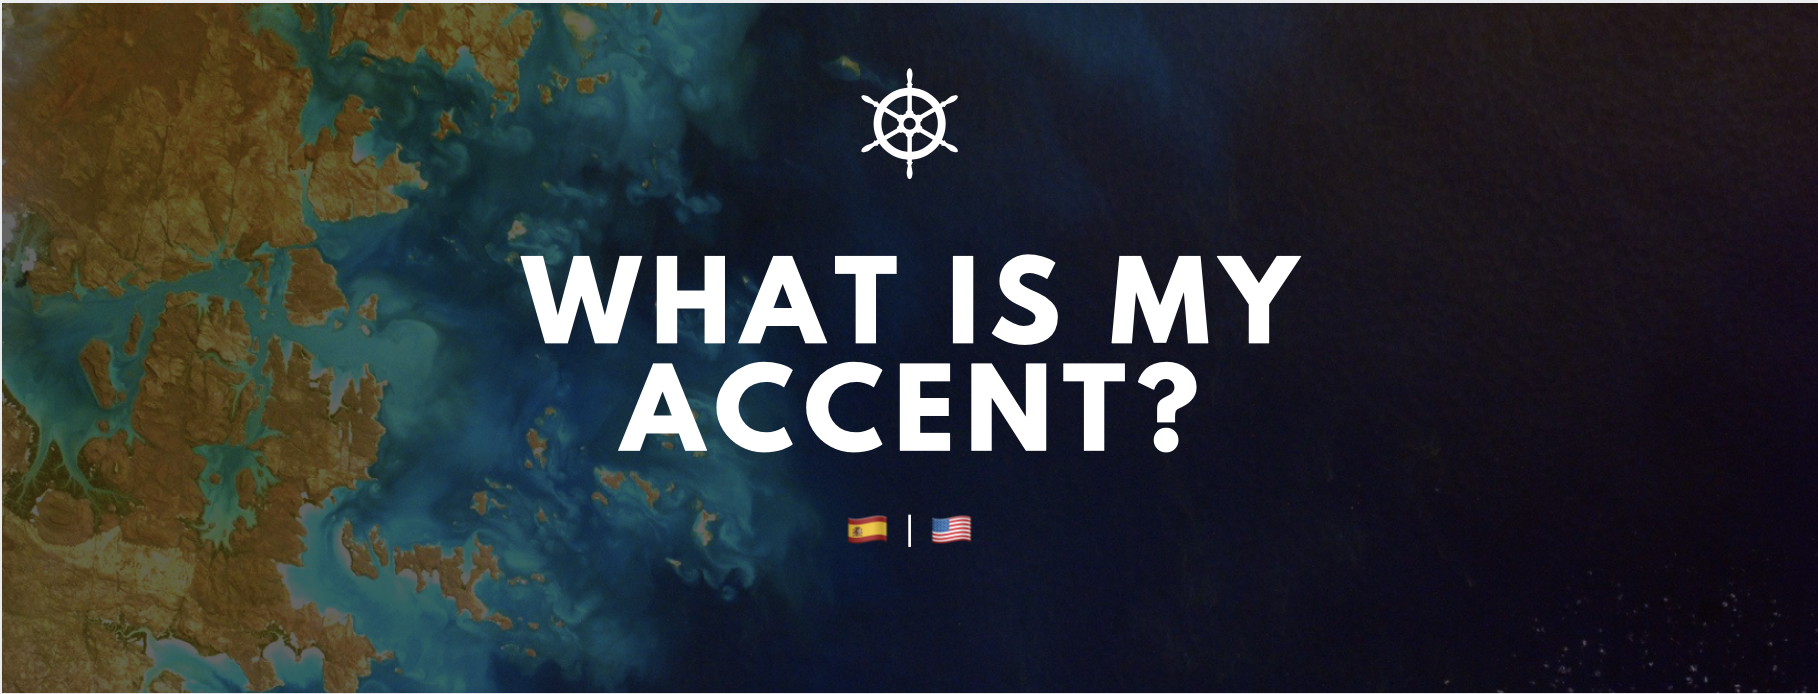
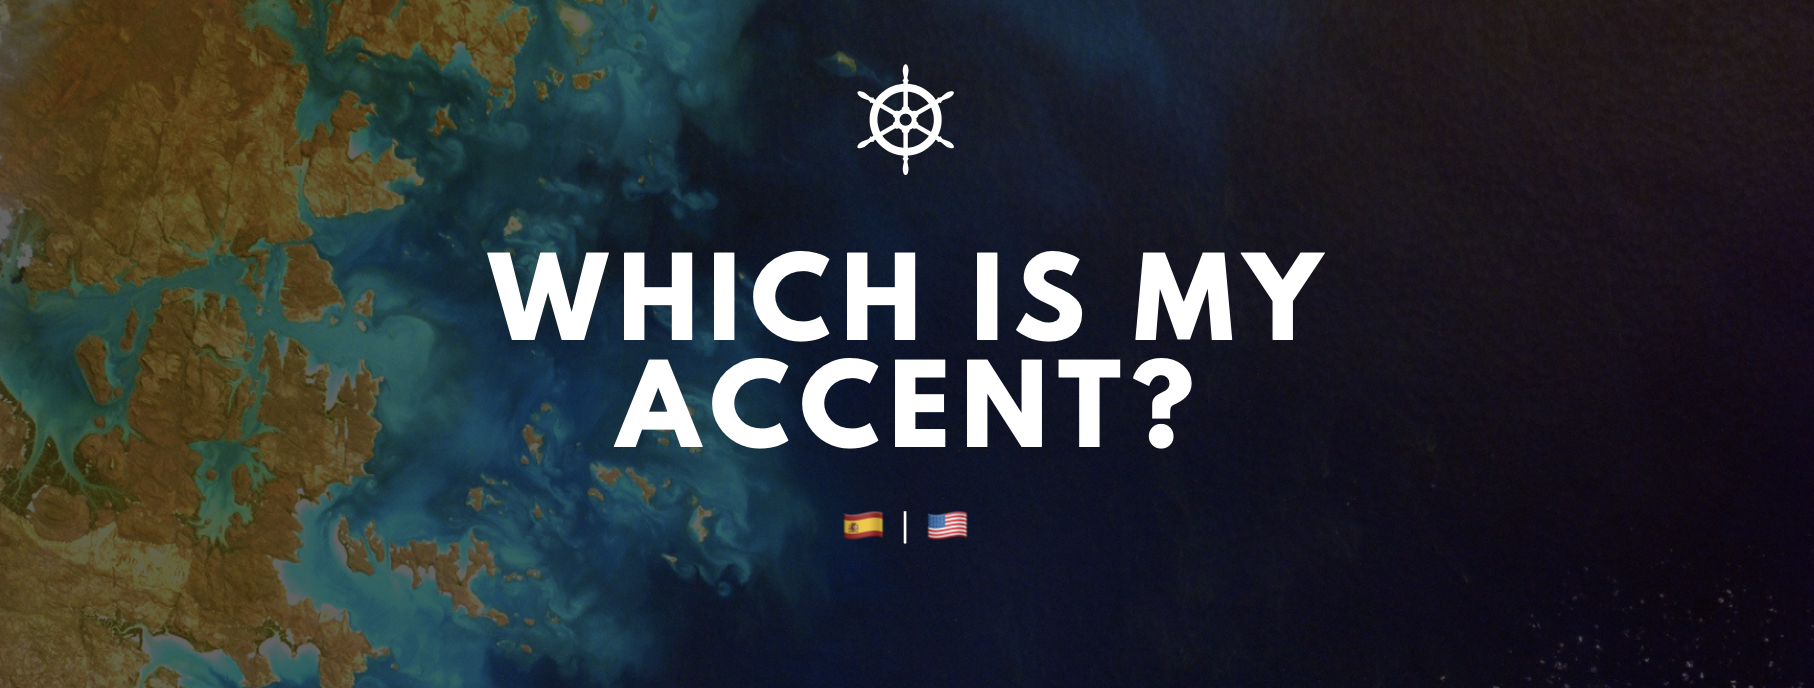
readme

diff --git a/README.md b/README.md
@@ -1,5 +1,5 @@
 <p align="center">
-  <img width="1000" height="300" src="https://github.com/breogann/-neural-network-to-tell-accents-apart/blob/master/Images/cover.png" alt="What's my accent?">
+  <img width="1000" height="300" src="https://github.com/breogann/-neural-network-to-tell-accents-apart/blob/master/Images/cover.png" alt="Which is my accent?">
 </p>
 
 # Neural network tells accents apart 
